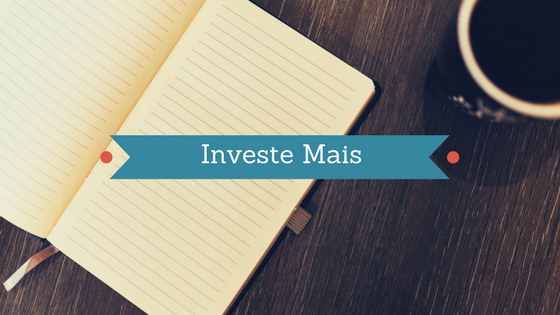
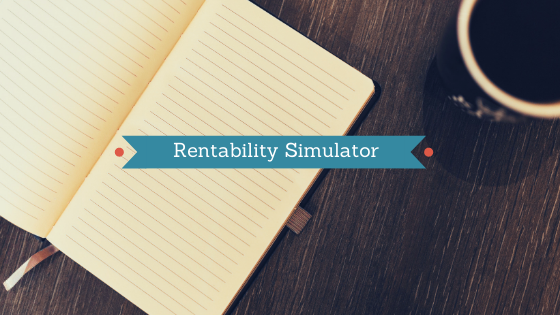
fix portfolio

diff --git a/index.html b/index.html
@@ -115,25 +115,21 @@
           The most enriching component of the BSc was the fact that, during three semesters, I was part of a new ISEP
           pedagogical project called CDIO-IL. In this project the students are challenged to develop throughout the
           semester in parallel with the curricular units, a technology-based project proposed by a company. The
-          development was performed by teams organized according to the SCRUM methodology. This was my first experience
-          with this agile methodology.<br>
-          Also, during my Computer Engineering degree I had training in Android development by the IT Engineering
-          Department. In total, I developed five apps: one application for evaluation, two others for the CDIO-IL and
-          two for my own.<br>
-          I'm interested in technological challenges with potential to create positive impact on society. My future
+          development was performed by teams organized according to the SCRUM methodology.<br>
+          The thing I most like in Software Engineering is to solve problems, it's an incredible feeling when I deliver something I'm proud of. Also, I'm not a believer of Software as a deliverable but, instead, I see it as an incremental product that must be maintained and monitored.<br>
+          I'm interested in technological challenges with the potential to create a positive impact on society. My future
           ambitions are to enrich my knowledge and capacities for productive development of applications of
           considerable size and application.<br></p>
         <ul class="list-inline">
           <li><span>Name:</span> Pedro Piloto</li>
           <li><span>Email:</span> <a href="mailto:me@pedropiloto.com">pedro@pedropiloto.com</a></li>
-          <li><span>Phone:</span> +351 926876686</li>
           <li><span>Date of birth:</span> 27 May 1996</li>
           <li><span>City:</span> Porto</li>
           <li><span>Nationality:</span> Portuguese</li>
         </ul>
         <div class="clear"></div>
         <div class="text-center margin-t-40">
-          <a target="_blank" href="http://bit.ly/2EQwBEO" class="btn btn-custom"><i class="fa fa-download"></i>
+          <a target="_blank" href="https://bit.ly/2Yft0Jv" class="btn btn-custom"><i class="fa fa-download"></i>
             Download Resume</a>
         </div>
       </section>
@@ -395,16 +391,15 @@
                 <div class="md-modal md-effect" id="modal-1">
                   <div class="md-content">
                     <div class="folio">
-                      <div class="sp-name"><strong>Investe Mais</strong>
+                      <div class="sp-name"><strong>Rentability Simulator</strong>
                         <br><span>Web Development</span></div>
                       <div class="sp-dsc">
-                        A Website developed with PHP initialy without any framework. It is still in beta version and in
-                        free times I'm changing it to Laravel Framework
+                        Rentability Simulator developed using react, meant to be used for Portugal. It is still under development of new features.
                       </div>
                       <div class="sp-social">
                         <ul>
                           <li>
-                            <a target="_blank" href="http://investemais.pt " class="social-btn "><i class="fa fa-dribbble "></i></a></li>
+                            <a target="_blank" href="https://github.com/pedropiloto/rentability-simulator" class="social-btn "><i class="fa fa-dribbble "></i></a></li>
                         </ul>
                       </div>
                       <button class="md-close "><i class="fa fa-times "></i></button>
@@ -438,7 +433,7 @@
                       <div class="sp-social">
                         <ul>
                           <li>
-                            <a target="_blank" href="http://chat.pedropiloto.com" class="social-btn "><i class="fa fa-dribbble "></i></a></li>
+                            <a target="_blank" href="https://github.com/pedropiloto/Node.js-Multi-Room-Chat" class="social-btn "><i class="fa fa-dribbble "></i></a></li>
                         </ul>
                       </div>
                       <button class="md-close "><i class="fa fa-times "></i></button>
@@ -474,7 +469,7 @@
                       <div class="sp-social">
                         <ul>
                           <li>
-                            <a target="_blank" href="http://checkservice.pedropiloto.com " class="social-btn "><i class="fa fa-dribbble "></i></a></li>
+                            <a target="_blank" href="https://github.com/pedropiloto/check-service" class="social-btn "><i class="fa fa-dribbble "></i></a></li>
                         </ul>
                       </div>
                       <button class="md-close "><i class="fa fa-times "></i></button>
@@ -537,15 +532,15 @@
                 <div class="md-modal md-effect" id="modal-5">
                   <div class="md-content">
                     <div class="folio">
-                      <div class="sp-name"><strong>Loan Calculator</strong>
-                        <br><span>Mobile Development</span></div>
+                      <div class="sp-name"><strong>Restaurant Microservices</strong>
+                        <br><span>Web Development</span></div>
                       <div class="sp-dsc">
-                        Android app to calculate loans
+                        Restaurant system developed using a microservices oriented architecture.
                       </div>
                       <div class="sp-social">
                         <ul>
                           <li>
-                            <a target="_blank" href="https://goo.gl/zhSvdH" class="social-btn "><i class="fa fa-dribbble "></i></a></li>
+                            <a target="_blank" href="https://github.com/pedropiloto/restaurant-microservices" class="social-btn "><i class="fa fa-dribbble "></i></a></li>
                         </ul>
                       </div>
                       <button class="md-close "><i class="fa fa-times "></i></button>
@@ -570,15 +565,16 @@
                 <div class="md-modal md-effect" id="modal-6">
                   <div class="md-content">
                     <div class="folio">
-                      <div class="sp-name"><strong>OnCloud</strong>
+                      <div class="sp-name"><strong>Solid Server Microservices </strong>
                         <br><span>Web Development</span></div>
                       <div class="sp-dsc">
-                        Authentication and Authorization shared system
+                        Solid is a project created by Tim Berners-Lee that aims to create new decentralized web paradigm. This project was developed during the master thesis and the main objective
+                        was to migrate from a monolith to a microservices oriented architecture.
                       </div>
                       <div class="sp-social">
                         <ul>
                           <li>
-                            <a target="_blank" href="http://oncloud.fyi.pt" class="social-btn "><i class="fa fa-dribbble "></i></a></li>
+                            <a target="_blank" href="https://github.com/pedropiloto/solid-server-microservices" class="social-btn "><i class="fa fa-dribbble "></i></a></li>
                         </ul>
                       </div>
                       <button class="md-close "><i class="fa fa-times "></i></button>
